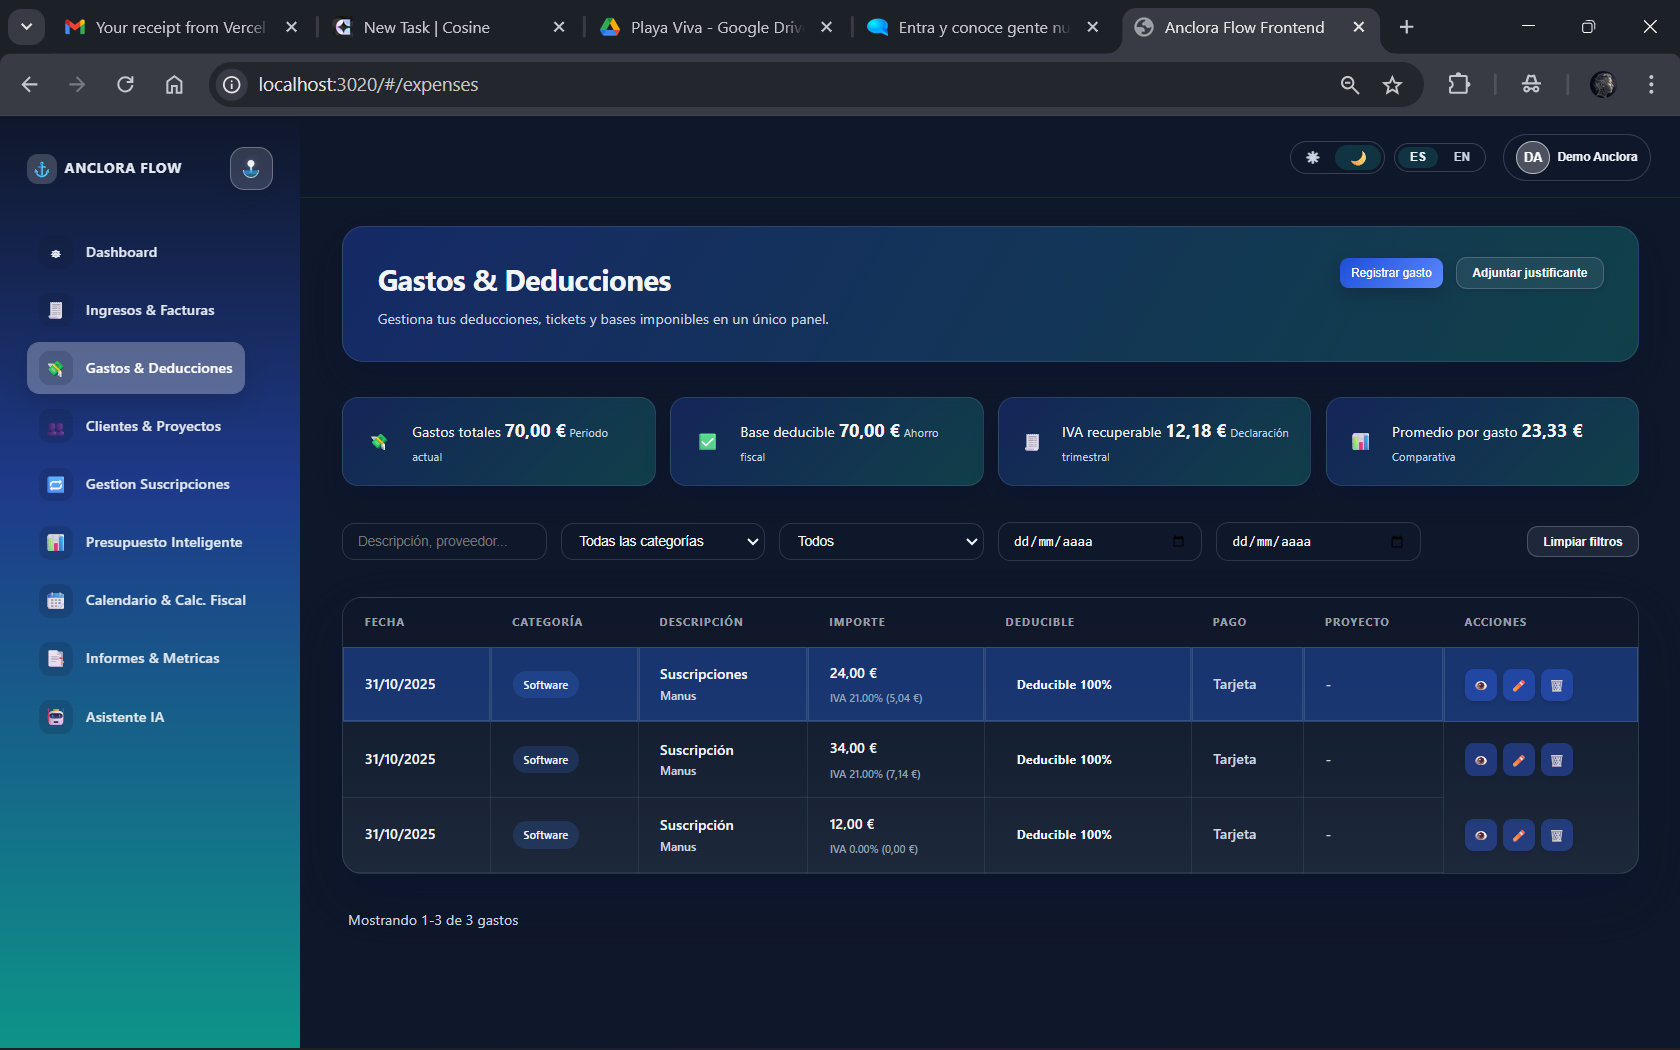
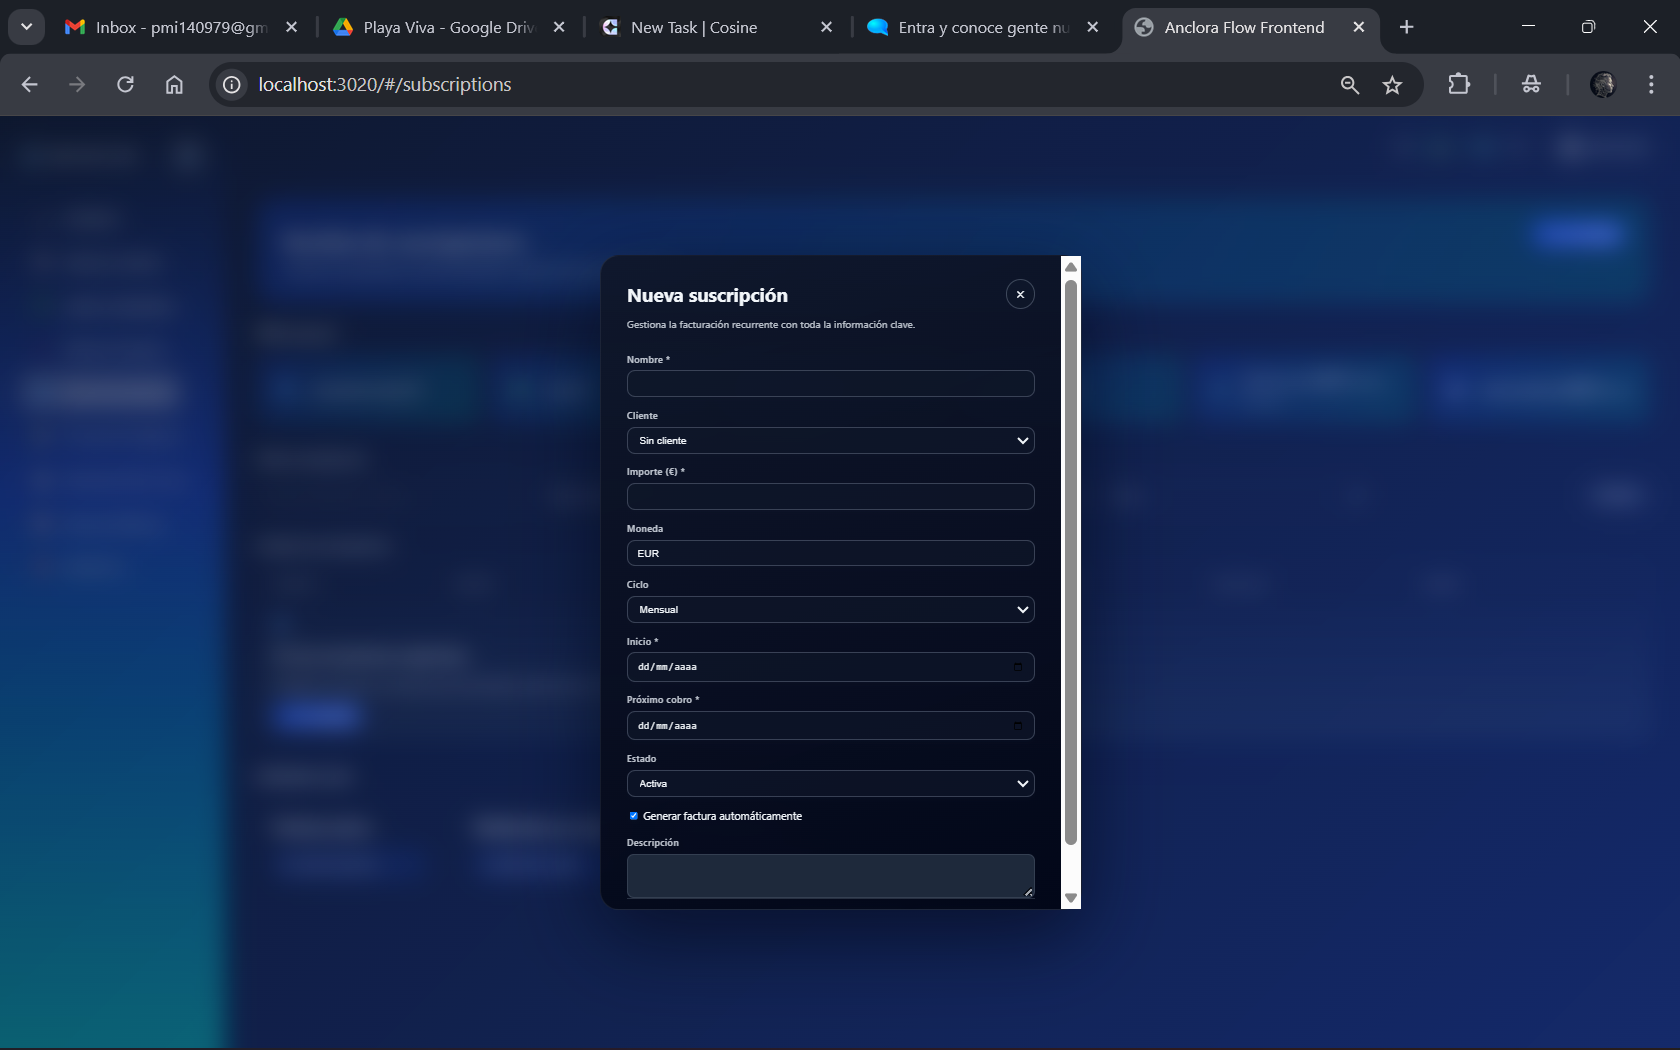
• - Actualicé la cabecera del módulo con Gestión de suscripciones y reorganicé los bloques para que sigan la pauta de     Gastos: visión general con tarjetas, filtros, tabla y una sección final de insights bien separada (frontend/src/     pages/subscriptions.js:574-708).   - Reescribí los modales de
Puedes levantar el frontend (cd frontend && npm run dev) para revisar que la nueva estructura y los modales se ven
  como esperas.

diff --git a/frontend/src/pages/subscriptions.js b/frontend/src/pages/subscriptions.js
@@ -395,85 +395,96 @@ function buildSubscriptionFormFields(subscription = {}) {
   ].join("");
 
   return `
-    <div class="modal-form__grid">
-      <label class="form-field">
-        <span>Nombre *</span>
-        <input type="text" name="name" value="${escapeHtml(
-          subscription.name || ""
-        )}" required />
-      </label>
-      <label class="form-field">
-        <span>Cliente</span>
-        <select name="clientId">
-          ${clientOptions}
-        </select>
-      </label>
-      <label class="form-field">
-        <span>Importe (€) *</span>
-        <input type="number" step="0.01" min="0" name="amount" value="${
-          subscription.amount ?? ""
-        }" required />
-      </label>
-      <label class="form-field">
-        <span>Moneda</span>
-        <input type="text" name="currency" value="${escapeHtml(
-          subscription.currency || "EUR"
-        )}" maxlength="5" />
-      </label>
-      <label class="form-field">
-        <span>Ciclo</span>
-        <select name="billingCycle">
-          <option value="monthly" ${
-            subscription.billingCycle === "monthly" ? "selected" : ""
-          }>Mensual</option>
-          <option value="quarterly" ${
-            subscription.billingCycle === "quarterly" ? "selected" : ""
-          }>Trimestral</option>
-          <option value="yearly" ${
-            subscription.billingCycle === "yearly" ? "selected" : ""
-          }>Anual</option>
-          <option value="custom" ${
-            subscription.billingCycle === "custom" ? "selected" : ""
-          }>Personalizado</option>
-        </select>
-      </label>
-      <label class="form-field">
-        <span>Inicio *</span>
-        <input type="date" name="startDate" value="${
-          subscription.startDate
-            ? subscription.startDate.split("T")[0]
-            : ""
-        }" required />
-      </label>
-      <label class="form-field">
-        <span>Próximo cobro *</span>
-        <input type="date" name="nextBillingDate" value="${
-          subscription.nextBillingDate
-            ? subscription.nextBillingDate.split("T")[0]
-            : ""
-        }" required />
-      </label>
-      <label class="form-field">
-        <span>Estado</span>
-        <select name="status">
-          <option value="active" ${
-            subscription.status === "active" ? "selected" : ""
-          }>Activa</option>
-          <option value="paused" ${
-            subscription.status === "paused" ? "selected" : ""
-          }>Pausada</option>
-          <option value="cancelled" ${
-            subscription.status === "cancelled" ? "selected" : ""
-          }>Cancelada</option>
-        </select>
-      </label>
-      <label class="checkbox">
-        <input type="checkbox" name="autoInvoice" ${
-          subscription.autoInvoice !== false ? "checked" : ""
-        } />
-        <span>Generar factura automáticamente</span>
-      </label>
-      <label class="form-field form-field--wide">
+    <div style="display: grid; gap: 1.5rem;">
+      <div style="display: grid; gap: 1rem; grid-template-columns: repeat(2, minmax(0, 1fr));">
+        <label class="form-field" style="grid-column: span 2;">
+          <span>Nombre *</span>
+          <input type="text" name="name" value="${escapeHtml(
+            subscription.name || ""
+          )}" required />
+        </label>
+        <label class="form-field">
+          <span>Cliente</span>
+          <select name="clientId">
+            ${clientOptions}
+          </select>
+        </label>
+        <label class="form-field">
+          <span>Estado</span>
+          <select name="status">
+            <option value="active" ${
+              subscription.status === "active" ? "selected" : ""
+            }>Activa</option>
+            <option value="paused" ${
+              subscription.status === "paused" ? "selected" : ""
+            }>Pausada</option>
+            <option value="cancelled" ${
+              subscription.status === "cancelled" ? "selected" : ""
+            }>Cancelada</option>
+          </select>
+        </label>
+      </div>
+
+      <div style="display: grid; gap: 1rem; grid-template-columns: repeat(2, minmax(0, 1fr));">
+        <label class="form-field">
+          <span>Importe (€) *</span>
+          <input type="number" step="0.01" min="0" name="amount" value="${
+            subscription.amount ?? ""
+          }" required />
+        </label>
+        <label class="form-field">
+          <span>Moneda</span>
+          <input type="text" name="currency" value="${escapeHtml(
+            subscription.currency || "EUR"
+          )}" maxlength="5" />
+        </label>
+        <label class="form-field">
+          <span>Ciclo de facturación</span>
+          <select name="billingCycle">
+            <option value="monthly" ${
+              subscription.billingCycle === "monthly" ? "selected" : ""
+            }>Mensual</option>
+            <option value="quarterly" ${
+              subscription.billingCycle === "quarterly" ? "selected" : ""
+            }>Trimestral</option>
+            <option value="yearly" ${
+              subscription.billingCycle === "yearly" ? "selected" : ""
+            }>Anual</option>
+            <option value="custom" ${
+              subscription.billingCycle === "custom" ? "selected" : ""
+            }>Personalizado</option>
+          </select>
+        </label>
+        <div class="form-field" style="display: flex; align-items: flex-end;">
+          <label class="checkbox" style="margin: 0;">
+            <input type="checkbox" name="autoInvoice" ${
+              subscription.autoInvoice !== false ? "checked" : ""
+            } />
+            <span>Generar factura automáticamente</span>
+          </label>
+        </div>
+      </div>
+
+      <div style="display: grid; gap: 1rem; grid-template-columns: repeat(2, minmax(0, 1fr));">
+        <label class="form-field">
+          <span>Inicio *</span>
+          <input type="date" name="startDate" value="${
+            subscription.startDate
+              ? subscription.startDate.split("T")[0]
+              : ""
+          }" required />
+        </label>
+        <label class="form-field">
+          <span>Próximo cobro *</span>
+          <input type="date" name="nextBillingDate" value="${
+            subscription.nextBillingDate
+              ? subscription.nextBillingDate.split("T")[0]
+              : ""
+          }" required />
+        </label>
+      </div>
+
+      <label class="form-field" style="display: flex; flex-direction: column; gap: 0.5rem;">
         <span>Descripción</span>
         <textarea name="description" rows="3">${escapeHtml(
           subscription.description || ""
@@ -589,26 +600,26 @@ function openSubscriptionModal(mode, subscriptionId = null) {
   }
 
   if (mode === "view") {
-    const detailHtml = buildSubscriptionDetail(subscription);
-    const modalHtml = `
-      <div class="modal is-open" id="subscription-modal">
-        <div class="modal__backdrop" data-modal-close></div>
-        <div class="modal__panel" style="width: min(95vw, 640px);">
-          <header class="modal__head">
-            <div>
-              <h2 class="modal__title">Detalle de la suscripción</h2>
-              <p class="modal__subtitle">${escapeHtml(
-                subscription?.name || ""
-              )}</p>
-            </div>
-            <button type="button" class="modal__close" data-modal-close aria-label="Cerrar">×</button>
-          </header>
+  const detailHtml = buildSubscriptionDetail(subscription);
+  const modalHtml = `
+    <div class="modal is-open" id="subscription-modal">
+      <div class="modal__backdrop" data-modal-close></div>
+      <div class="modal__panel" style="width: min(95vw, 640px);">
+        <header class="modal__head">
+          <div>
+            <h2 class="modal__title">Detalle de la suscripción</h2>
+            <p class="modal__subtitle">${escapeHtml(
+              subscription?.name || ""
+            )}</p>
+          </div>
+          <button type="button" class="modal__close" data-modal-close aria-label="Cerrar">×</button>
+        </header>
           <div class="modal__body" style="display: flex; flex-direction: column; gap: 1.5rem;">
             ${detailHtml}
           </div>
-          <footer class="modal__footer modal-form__footer">
-            <button type="button" class="btn-secondary" data-modal-close>Cerrar</button>
-            <button type="button" class="btn-primary" data-modal-edit="${subscription?.id}">Editar</button>
+        <footer class="modal__footer modal-form__footer">
+          <button type="button" class="btn-secondary" data-modal-close>Cerrar</button>
+          <button type="button" class="btn-primary" data-modal-edit="${subscription?.id}">Editar</button>
           </footer>
         </div>
       </div>
@@ -646,7 +657,7 @@ function openSubscriptionModal(mode, subscriptionId = null) {
           </div>
           <button type="button" class="modal__close" data-modal-close aria-label="Cerrar">×</button>
         </header>
-        <form class="modal__body" id="${formId}" data-form-type="subscription" data-subscription-id="${subscription?.id || ""}" novalidate>
+        <form class="modal__body" id="${formId}" data-form-type="subscription" data-subscription-id="${subscription?.id || ""}" novalidate style="display: flex; flex-direction: column; gap: 1.75rem;">
           ${formFields}
         </form>
         <footer class="modal__footer modal-form__footer">
@@ -859,7 +870,7 @@ export default function renderSubscriptions() {
     <section class="subscriptions" aria-labelledby="subscriptions-title">
       <header class="expenses__hero">
         <div class="expenses__hero-copy">
-          <h1 id="subscriptions-title">Ingresos recurrentes</h1>
+          <h1 id="subscriptions-title">Gestión de suscripciones</h1>
           <p>Controla las suscripciones, ciclos de facturación y cobros previstos sin salir de Flow.</p>
         </div>
         <div class="expenses__hero-actions">
@@ -867,6 +878,10 @@ export default function renderSubscriptions() {
         </div>
       </header>
 
+      <section aria-labelledby="subscriptions-overview" style="margin: 2rem 0 2.5rem;">
+        <div style="display: flex; align-items: baseline; justify-content: space-between; margin-bottom: 1.25rem;">
+          <h2 id="subscriptions-overview" style="margin: 0; font-size: 1.1rem;">Visión general</h2>
+        </div>
       <div class="summary-cards">
         <article class="card stat-card">
           <div class="card-icon" style="background: var(--color-primary-light);">🔁</div>
@@ -913,7 +928,10 @@ export default function renderSubscriptions() {
           </div>
         </article>
       </div>
+      </section>
 
+      <section aria-labelledby="subscriptions-filters" style="margin: 0 0 2.5rem;">
+        <h2 id="subscriptions-filters" style="margin: 0 0 1.25rem; font-size: 1.1rem;">Filtrar suscripciones</h2>
       <section class="expenses__filters" aria-label="Filtros de suscripciones">
         <div class="expenses__filters-group">
           <label class="visually-hidden" for="subscription-search">Buscar suscripciones</label>
@@ -951,6 +969,12 @@ export default function renderSubscriptions() {
         </div>
       </section>
 
+      </section>
+
+      <section aria-labelledby="subscriptions-table-title" style="margin: 0 0 2.5rem;">
+        <div style="display: flex; align-items: baseline; justify-content: space-between; margin-bottom: 1rem;">
+          <h2 id="subscriptions-table-title" style="margin: 0; font-size: 1.1rem;">Listado de suscripciones</h2>
+        </div>
       <section class="expenses-table" aria-label="Listado de suscripciones">
         <div class="expenses-table__surface">
           <table>
@@ -980,7 +1004,10 @@ export default function renderSubscriptions() {
         <div class="module-error" data-subscriptions-error hidden></div>
       </section>
 
-      <section class="subscriptions-insights" aria-label="Indicadores de suscripciones" style="display: grid; gap: 1.5rem; grid-template-columns: repeat(auto-fit, minmax(240px, 1fr));">
+      </section>
+
+      <section class="subscriptions-insights" aria-label="Indicadores de suscripciones" style="display: grid; gap: 1.5rem; grid-template-columns: repeat(auto-fit, minmax(240px, 1fr)); margin-bottom: 1.5rem;">
+        <h2 style="grid-column: 1 / -1; margin: 0; font-size: 1.1rem;">Indicadores clave</h2>
         <article class="card" style="padding: 1.5rem;">
           <h3 style="margin-top: 0;">Próximos cobros</h3>
           <ul class="insight-list" data-upcoming-subscriptions></ul>
